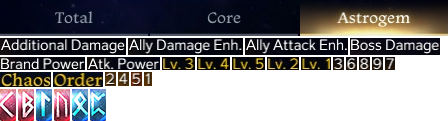
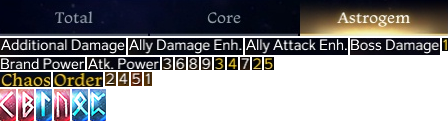
feat/다양한 해상도 지원
FHD미만인 경우 1080으로 업스케일링
낮은 경우 FHD로 다운스케일링
영문 클라언트 옵션 레벨 이미지 변경

Changed region(s): [[0.3438, 0.4711, 0.9062, 0.595], [0.9688, 0.2975, 1.0, 0.4215]]

diff --git a/src/components/GemRecognitionPanel.svelte b/src/components/GemRecognitionPanel.svelte
@@ -34,7 +34,7 @@
   let isRecording = $state<boolean>(false);
   let isDebugging = $state<boolean>(false);
   let isLoading = $state<boolean>(false);
-  let detectionThreshold = $state<number>(0.85);
+  let detectionThreshold = $state<number>(0.75);
   let gemListElem: GemRecognitionGemList | null = null;
 
   onMount(() => {
@@ -287,8 +287,8 @@
           debugRectJS(
             { x: frame.cols / 4, y: frame.rows / 4, w: frame.cols / 2, h: frame.rows / 2 },
             {
-              key: '아크 그리드 젬 목록을 찾지 못하였습니다.',
-              fontSize: 60,
+              key: '아크 그리드 젬 목록을 찾을 수 없습니다.',
+              fontSize: 50,
               fontColor: 'red',
               rectColor: 'red',
               rectLineWidth: 10,
@@ -452,13 +452,54 @@
             // 종료
             break;
           }
-          // 1. 화면 인식에 사용할 캔버스 크기를 입력과 맞게 설정
-          canvas.width = rawFrame.displayWidth;
-          canvas.height = rawFrame.displayHeight;
+          let resoultionScale = 1;
+          let expectResolution = 'FHD';
+          const rawHeight = rawFrame.displayHeight;
+
+          // 윈도우 타이틀 바 높이는 32px정도라고 함
+          if (rawHeight < 1080) {
+            // FHD 창모드
+            resoultionScale = 1080 / (rawHeight - 27); // 윈도우 10 기준 실제로 27px
+            expectResolution = `(경고) FHD 미만`;
+          } else if (rawHeight >= 1080 && rawHeight <= 1080 + 48) {
+            // FHD, UWFHD
+          } else if (rawHeight >= 1440 && rawHeight <= 1440 + 48) {
+            // QHD, UWQHD
+            resoultionScale = 3 / 4;
+            expectResolution = 'QHD';
+          } else if (rawHeight >= 2160 && rawHeight <= 2160 + 48) {
+            // UHD
+            resoultionScale = 1 / 2;
+            expectResolution = 'UHD';
+          } else {
+            // ?
+            expectResolution = '(경고) Unknown';
+          }
+          // 1. 화면 인식에 사용할 캔버스 크기를 FHD에 맞게 설정
+          canvas.width = Math.floor(rawFrame.displayWidth * resoultionScale);
+          canvas.height = Math.floor(rawFrame.displayHeight * resoultionScale);
           debugCanvas.width = canvas.width;
           debugCanvas.height = canvas.height;
           if (isDebugging) {
             debugCtx.drawImage(rawFrame, 0, 0, debugCanvas.width, debugCanvas.height);
+            debugCtx.font = `40px Arial`;
+            debugCtx.fillStyle = 'white';
+            debugCtx.strokeStyle = 'black'; // 테두리 색
+            debugCtx.lineWidth = 10 * resoultionScale; // 테두리 두께
+            const x = 25;
+            const y = 100;
+            // 테두리 먼저 그리기
+            debugCtx.strokeText(
+              `해상도: ${expectResolution} (${rawFrame.displayWidth}x${rawFrame.displayHeight})`,
+              x,
+              y
+            );
+            // 그 위에 흰 글씨 채우기
+            debugCtx.fillText(
+              `해상도: ${expectResolution} (${rawFrame.displayWidth}x${rawFrame.displayHeight})`,
+              x,
+              y
+            );
           }
           if (!ctx) break;
 
@@ -524,9 +565,9 @@
 
             // 5-2) 젬 의지력
             const willPowerRect = {
-              x: rowRect.x + (1240 - 1176),
+              x: rowRect.x + (1240 - 1176) + 1,
               y: rowRect.y,
-              w: 1264 - 1240,
+              w: 1264 - 1240 - 1,
               h: 30,
             };
             const willPower =
@@ -568,12 +609,13 @@
             // 옵션을 찾았다면, 옵션의 너비만큼 거리를 벌려서 optionA의 레벨을 찾음
             const optionAType = optionAMatch?.bestKey ?? null;
             const optionALoc = optionAMatch?.bestLoc ?? null;
-            const optionALevelXOffset = optionALoc ? optionALoc.x + optionALoc.w : 60;
+            const optionALevelXOffset = optionALoc ? optionALoc.x + optionALoc.w + 16 : 60;
+            // lv. 글자를 제외하기 위해서 +16
 
             const optionAValueRect = {
               x: optionARect.x + optionALevelXOffset,
               y: optionARect.y,
-              w: 1447 - 1301,
+              w: 48,
               h: optionARect.h,
             };
             const optionAValue =
@@ -599,11 +641,11 @@
             );
             const optionBType = optionBMatch?.bestKey ?? null;
             const optionBLoc = optionBMatch?.bestLoc ?? null;
-            const optionBLevelXOffset = optionBLoc ? optionBLoc.x + optionBLoc.w : 60;
+            const optionBLevelXOffset = optionBLoc ? optionBLoc.x + optionBLoc.w + 16 : 60;
             const optionBValueRect = {
               x: optionBRect.x + optionBLevelXOffset,
               y: optionBRect.y,
-              w: 1447 - 1301,
+              w: 48,
               h: optionBRect.h,
             };
             const optionBValue =
@@ -902,27 +944,45 @@
         {#if appConfig.current.uiConfig.showGemRecognitionGuide}
           <div class="content">
             <p>
-              1. 모니터의 해상도가 <b>FHD (1920x1080)</b>이거나
-              <b>WFHD (2560x1980)</b>인 경우 그대로 진행해주세요.<br />
-              모니터의 해상도가 그 이상인 경우, 화면 인식을 위해 반드시 로스트아크 해상도를
-              <b>"1920x1080 (16:9)"</b>으로 설정한 뒤 화면을 "창 모드"로 설정해주세요.
+              1. 게임에서 젬 목록 화면을 연 뒤 모든 젬을 장착 해제해주세요.<br />
+              안 쓰는 아크 그리드 프리셋으로 전환하는 것으로 손쉽게 젬을 해제할 수 있습니다.
             </p>
-
-            <img src={guideImages['../assets/guide/1.png']} alt="guide-img1" />
-            <p>
-              3. 게임에서 젬 목록 화면을 연 뒤 모든 젬을 장착 해제하고, [🖥 화면 공유 시작] 버튼을
-              통해 화면을 공유해주세요<br /> (안쓰는 아크 그리드 프리셋으로 전환하는 것으로 손쉽게 젬을
-              해제할 수 있습니다.)
-            </p>
+            <p>2. [🖥 화면 공유 시작] 버튼을 통해 로스트아크 게임 화면을 공유해주세요</p>
             <img src={guideImages['../assets/guide/2.png']} alt="guide-img2" />
             <p>
-              4. 마우스가 젬을 건드리지 않도록 스크롤바 위에 위치시키는 것을 추천드립니다. 스크롤을
+              2. 마우스가 젬을 건드리지 않도록 스크롤바 위에 위치시키는 것을 추천드립니다. 스크롤을
               내리면서 인식된 젬이 목록에 추가되는 것을 확인해주세요.
             </p>
             <p>
-              5. 수집된 젬의 개수를 확인하고, <b>질서와 혼돈 모든 젬</b>이 수집되었으면 [✅ 현재
+              3. 수집된 젬의 개수를 확인하고, <b>질서와 혼돈 모든 젬</b>이 수집되었으면 [✅ 현재
               프로필에 반영] 버튼을 눌러 프로필에 저장해주세요.
             </p>
+            <br />
+            <h2>FAQ</h2>
+            <p>
+              Q. 화면 공유에 실패하거나 거부하였다고 나옵니다.<br />
+              A. 데스크톱 환경에서 크롬 혹은 엣지 브라우저로 실행해주세요.
+            </p>
+            <p>
+              Q. 젬이 인식되지 않습니다.<br />
+              A. [공유 중인 화면 보기]를 눌러 다음 사항을 확인해주세요.
+            </p>
+            <ol>
+              <li>게임 화면이 올바르게 나오고 갱신 중인지 확인해주세요.</li>
+              <li>
+                '아크 그리드 젬 목록을 찾을 수 없습니다' 문구가 보이는 경우, 게임 내에서 아크 그리드
+                창을 연 뒤 젬 목록을 열어주세요.
+              </li>
+              <li>
+                젬 옵션을 추출하는 영역이 실제 위치와 일치하지 않는다면 게임 해상도를 "1920x1080
+                (16:9)"로 화면을 "창 모드"로 변경해주세요.
+              </li>
+              <li>
+                젬 옵션을 추출하는 영역 중 일부가 빨갛게 되어 있다면 상단 '화면 인식 정밀도'를
+                낮춰서 시도해주세요.
+              </li>
+              <br />
+            </ol>
           </div>
         {/if}
       </div>

diff --git a/src/lib/opencv-template-coords/en_us.ts b/src/lib/opencv-template-coords/en_us.ts
@@ -2,19 +2,19 @@
 export const enUsCoords = {
   '1.png': { x: 144, y: 72, w: 8, h: 14 },
   '2.png': { x: 105, y: 72, w: 11, h: 14 },
-  '3.png': { x: 333, y: 57, w: 11, h: 13 },
+  '3.png': { x: 162, y: 57, w: 11, h: 13 },
   '4.png': { x: 118, y: 72, w: 11, h: 14 },
   '5.png': { x: 131, y: 72, w: 11, h: 14 },
-  '6.png': { x: 346, y: 57, w: 11, h: 13 },
-  '7.png': { x: 385, y: 57, w: 10, h: 13 },
-  '8.png': { x: 359, y: 57, w: 11, h: 13 },
-  '9.png': { x: 372, y: 57, w: 11, h: 13 },
+  '6.png': { x: 175, y: 57, w: 11, h: 13 },
+  '7.png': { x: 240, y: 57, w: 10, h: 13 },
+  '8.png': { x: 188, y: 57, w: 11, h: 13 },
+  '9.png': { x: 201, y: 57, w: 11, h: 13 },
   'anchor.png': { x: 0, y: 0, w: 448, h: 36 },
-  'lv1.png': { x: 301, y: 57, w: 30, h: 13 },
-  'lv2.png': { x: 267, y: 57, w: 32, h: 13 },
-  'lv3.png': { x: 162, y: 57, w: 33, h: 13 },
-  'lv4.png': { x: 197, y: 57, w: 33, h: 13 },
-  'lv5.png': { x: 232, y: 57, w: 33, h: 13 },
+  'lv1.png': { x: 442, y: 38, w: 6, h: 13 },
+  'lv2.png': { x: 252, y: 57, w: 10, h: 13 },
+  'lv3.png': { x: 214, y: 57, w: 11, h: 13 },
+  'lv4.png': { x: 227, y: 57, w: 11, h: 13 },
+  'lv5.png': { x: 264, y: 57, w: 10, h: 13 },
   '견고.png': { x: 0, y: 89, w: 16, h: 32 },
   '공격력.png': { x: 87, y: 57, w: 73, h: 13 },
   '낙인력.png': { x: 0, y: 57, w: 85, h: 13 },
